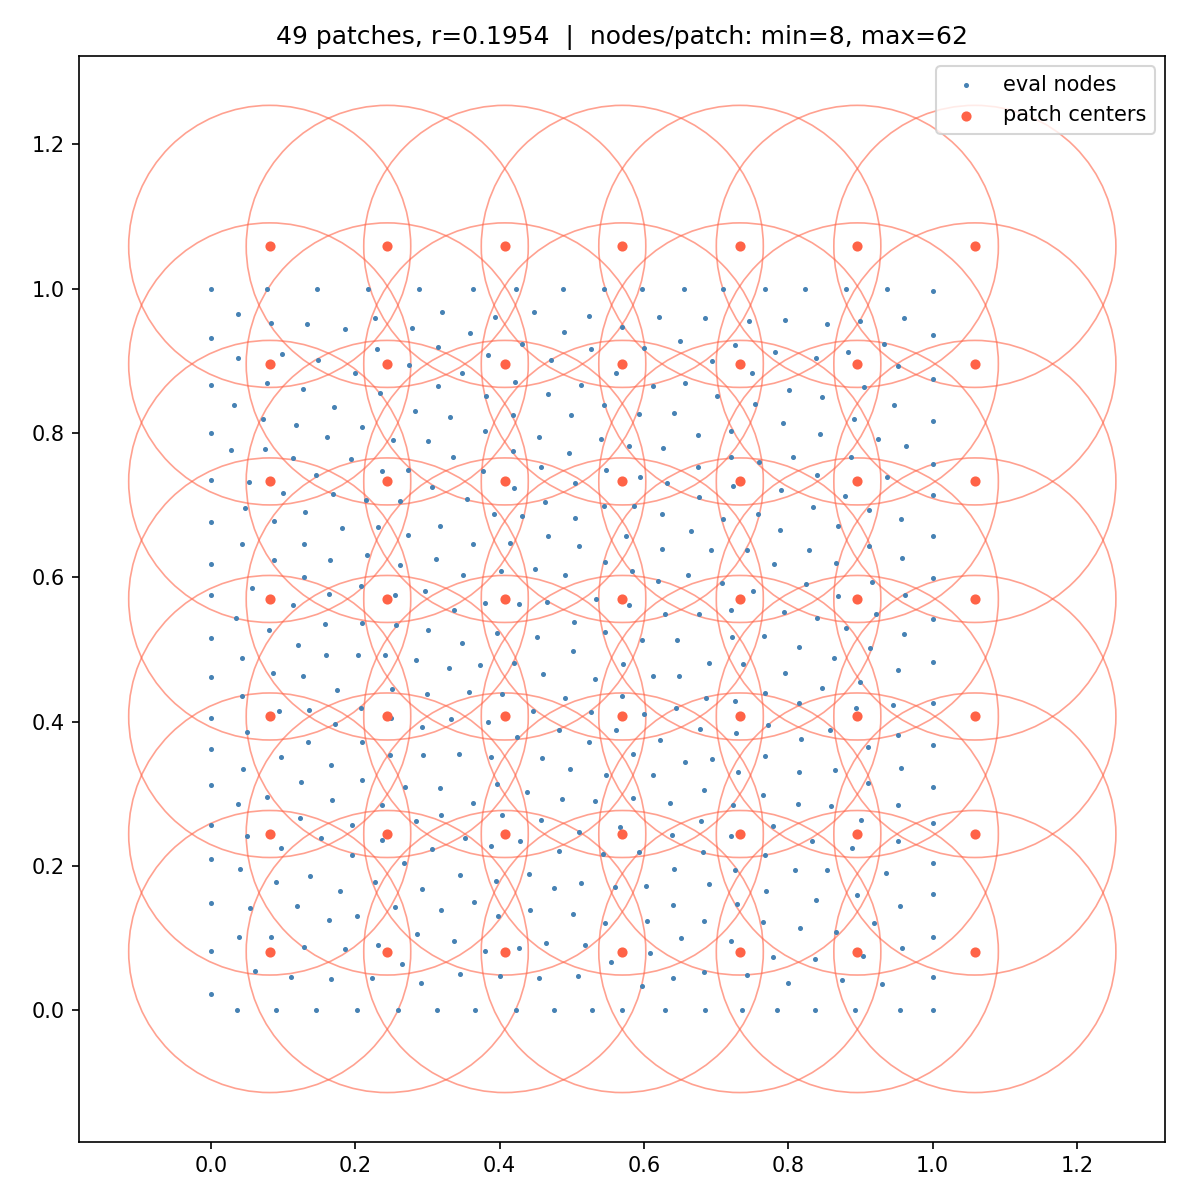
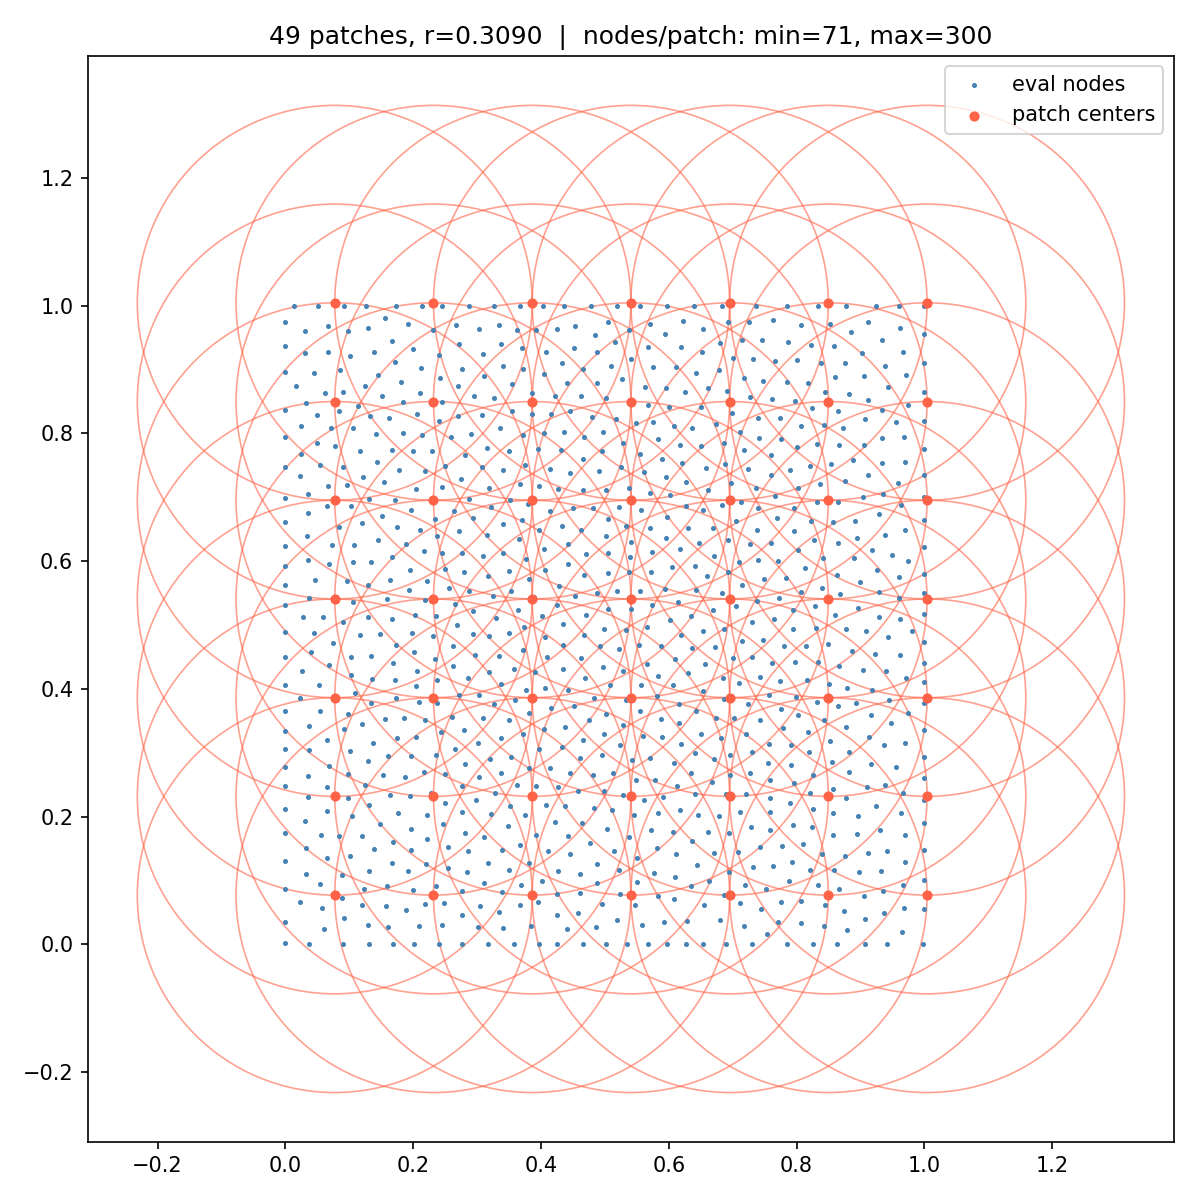
LSPUM mostly working

diff --git a/LSPUM/PoissonTest.py b/LSPUM/PoissonTest.py
@@ -6,7 +6,9 @@ from scipy.spatial import cKDTree
 from source.PatchTiling import BoxGridTiling2D
 from nodes.SquareDomain import PoissonSquareOne, MinEnergySquareOne
 from source.LSSetup import Setup
-from source.Operators import GenLap
+from source.Operators import GenLapMatrix, GenInterp
+from scipy.sparse.linalg import lsqr
+from source.PUWeights import NormalizeWeights
 
 comm = MPI.COMM_WORLD
 rank = comm.Get_rank()
@@ -14,9 +16,9 @@ size = comm.Get_size()
 
 plotfolder = "figures"
 
-M = 500
-beta = 2
-alpha = 1.2
+M = 1000
+beta = 6
+alpha = 2
 
 if rank == 0:
     print("Generating nodes...")
@@ -24,7 +26,7 @@ if rank == 0:
     eval_nodes, normals, groups = MinEnergySquareOne(M)
 
     print("Tiling domain...")
-    centers, r = BoxGridTiling2D(eval_nodes, n_interp=30, oversample_factor=beta, overlap=alpha)
+    centers, r = BoxGridTiling2D(eval_nodes, n_interp=50, oversample_factor=beta, overlap=alpha)
 
     # Count eval_nodes per patch
     tree = cKDTree(eval_nodes)
@@ -51,11 +53,12 @@ else:
     groups = None
     centers = None
     r = None
-comm.bcast(eval_nodes, root=0)
-comm.bcast(normals, root=0)
-comm.bcast(groups, root=0)
-comm.bcast(centers, root=0)
-comm.bcast(r, root=0)
+eval_nodes = comm.bcast(eval_nodes, root=0)
+normals    = comm.bcast(normals, root=0)
+groups     = comm.bcast(groups, root=0)
+centers    = comm.bcast(centers, root=0)
+r          = comm.bcast(r, root=0)
+
 
 bc_flags = np.empty(len(eval_nodes), dtype=str)
 bc_flags[groups["boundary:all"]] = 'd'
@@ -63,32 +66,53 @@ bc_flags[groups["boundary:all"]] = 'd'
 bc_flags[groups["interior"]] = 'i'
 
 local_patches = Setup(
-    comm, eval_nodes, normals, groups, centers, r,
+    comm, eval_nodes, normals, bc_flags, centers, r,
     n_interp=30, node_layout='vogel', assignment='round_robin',
     K=64, n=16, m=48, eval_epsilon=0,
 )
 
-lap = GenLap(comm, local_patches, M=M)
+NormalizeWeights(comm, local_patches, M)
 
-local_us = []
+n_interp  = local_patches[0].interp_nodes.shape[0] if local_patches else 0
+n_interp  = comm.allreduce(n_interp, op=MPI.MAX)
+N_patches = len(centers)
 
-for patch in local_patches:
-    u_j = -2*np.pi**2*np.sin(np.pi * patch.interp_nodes[:, 0]) * np.sin(np.pi * patch.interp_nodes[:, 1])
-    local_us.append(u_j)
-
-UY = lap(local_us)
+print(f"[{rank}] Building system matrix ({M} x {N_patches * n_interp})...")
+A = GenLapMatrix(comm, local_patches, M, N_patches, n_interp, groups["boundary:all"])
 
 if rank == 0:
-    # Plot UY
-    fig, ax = plt.subplots(figsize=(8, 8))
-    sc = ax.scatter(eval_nodes[:, 0], eval_nodes[:, 1], c=UY, s=5, cmap='viridis')
-    plt.colorbar(sc, ax=ax, label='Laplace(U)')
-    ax.set_aspect('equal')
-    ax.set_title('Laplace(U) at eval nodes')
+    # RHS: interior = manufactured forcing, boundary = 0 (sin vanishes on unit-square boundary)
+    f = np.zeros(M)
+    xi = eval_nodes[groups["interior"]]
+    f[groups["interior"]] = -2 * np.pi**2 * np.sin(np.pi * xi[:, 0]) * np.sin(np.pi * xi[:, 1])
+
+    print(f"Solving ({A.shape[0]} x {A.shape[1]}, nnz={A.nnz})...")
+    c, *_ = lsqr(A, f, atol=1e-12, btol=1e-12, iter_lim=50000)
+else:
+    c = None
+
+c = comm.bcast(c, root=0)
+
+local_cs = [c[p.global_pid * n_interp : (p.global_pid + 1) * n_interp] for p in local_patches]
+
+interp = GenInterp(comm, local_patches, M=M)
+U = interp(local_cs)
+
+if rank == 0:
+    u_exact = np.sin(np.pi * eval_nodes[:, 0]) * np.sin(np.pi * eval_nodes[:, 1])
+    error   = np.abs(U - u_exact)
+    print(f"Max error: {error.max():.2e},  L2 error: {np.sqrt(np.mean(error**2)):.2e}")
+
+    fig, axes = plt.subplots(1, 2, figsize=(14, 6))
+    sc0 = axes[0].scatter(eval_nodes[:, 0], eval_nodes[:, 1], c=U,     s=5, cmap='viridis')
+    sc1 = axes[1].scatter(eval_nodes[:, 0], eval_nodes[:, 1], c=error, s=5, cmap='hot_r')
+    plt.colorbar(sc0, ax=axes[0], label='U (computed)')
+    plt.colorbar(sc1, ax=axes[1], label='|error|')
+    axes[0].set_aspect('equal'); axes[0].set_title('PUM Poisson solution')
+    axes[1].set_aspect('equal'); axes[1].set_title('Pointwise error')
     plt.tight_layout()
-    plt.savefig(plotfolder + '/laplace_u.png', dpi=150)
-    #plt.show()
-    print("Saved laplace_u.png")
+    plt.savefig(plotfolder + '/poisson_solution.png', dpi=150)
+    print("Saved poisson_solution.png")
 
 
 

diff --git a/LSPUM/source/Operators.py b/LSPUM/source/Operators.py
@@ -1,9 +1,9 @@
 import numpy as np
 from mpi4py import MPI
+from scipy.sparse import csr_matrix
 
 def GenLap(comm, patches, M):
 
-    n_interp = patches[0].E.shape[1] if patches else 0
     d        = patches[0].D.shape[0]  if patches else 0
 
     def lap(local_us):
@@ -16,8 +16,81 @@ def GenLap(comm, patches, M):
             grad  = np.column_stack([patch.D[k] @ u_j for k in range(d)])
             lap_u = patch.L @ u_j
 
-            result_local[idx] = patch.w_bar * lap_u + 2.0 * np.sum(patch.gw_bar * grad, axis=1) + patch.lw_bar * E_u
+            result_local[idx] += patch.w_bar * lap_u + 2.0 * np.sum(patch.gw_bar * grad, axis=1) + patch.lw_bar * E_u
 
         result = np.zeros(M)
         comm.Allreduce(result_local, result, op=MPI.SUM)
         return result
+    
+    return lap
+
+def GenInterp(comm, patches, M):
+
+
+    def interp(local_us):
+        result_local = np.zeros(M)
+        for p, patch in enumerate(patches):
+            idx = patch.eval_node_indices
+            u_j = local_us[p]
+            E_u   = patch.E @ u_j
+
+            result_local[idx] += patch.w_bar * E_u
+
+        result = np.zeros(M)
+        comm.Allreduce(result_local, result, op=MPI.SUM)
+        return result
+    
+    return interp
+
+def GenLapMatrix(comm, patches, M, N_patches, n_interp, bc_indices):
+    """
+    Build the PUM system matrix via batched matvecs.
+
+    For each patch j, applies both operators to the n_interp identity columns
+    of that DOF block, producing n_interp matrix columns per MPI round.
+
+    Interior rows : PUM Laplacian   (w_bar*L + 2*gw_bar·D + lw_bar*E)
+    Dirichlet rows: PUM interpolant (w_bar*E)
+
+    Returns CSR matrix on rank 0, None on other ranks.
+    """
+    rank = comm.Get_rank()
+    nc   = N_patches * n_interp
+
+    A_lap = np.zeros((M, nc)) if rank == 0 else None
+    A_itp = np.zeros((M, nc)) if rank == 0 else None
+
+    patch_by_pid = {p.global_pid: p for p in patches}
+
+    for j in range(N_patches):
+        c0 = j * n_interp
+        c1 = c0 + n_interp
+
+        loc_lap = np.zeros((M, n_interp))
+        loc_itp = np.zeros((M, n_interp))
+
+        if j in patch_by_pid:
+            patch = patch_by_pid[j]
+            idx = patch.eval_node_indices
+            EU  = patch.E                                                   # (n_eval, n_interp)
+            DU  = patch.D                                                   # (d, n_eval, n_interp)
+            LU  = patch.L                                                   # (n_eval, n_interp)
+
+            loc_lap[idx] = (patch.w_bar[:, None] * LU
+                            + 2.0 * np.einsum('id,dij->ij', patch.gw_bar, DU)
+                            + patch.lw_bar[:, None] * EU)
+            loc_itp[idx] = patch.w_bar[:, None] * EU
+
+        buf_lap = np.zeros((M, n_interp))
+        buf_itp = np.zeros((M, n_interp))
+        comm.Allreduce(loc_lap, buf_lap, op=MPI.SUM)
+        comm.Allreduce(loc_itp, buf_itp, op=MPI.SUM)
+
+        if rank == 0:
+            A_lap[:, c0:c1] = buf_lap
+            A_itp[:, c0:c1] = buf_itp
+
+    if rank == 0:
+        A_lap[bc_indices, :] = A_itp[bc_indices, :]
+        return csr_matrix(A_lap)
+    return None

diff --git a/LSPUM/source/PUWeights.py b/LSPUM/source/PUWeights.py
@@ -34,7 +34,7 @@ def NormalizeWeights(comm, patches, N):
     W : (N,) array
         Global weight sum (should be ≥ 1 everywhere; useful for diagnostics).
     """
-    d = patches[0].nodes.shape[1] if patches else 0
+    d = patches[0].interp_nodes.shape[1] if patches else 0
     d = comm.allreduce(d, op=MPI.MAX)
 
     W_local     = np.zeros(N)
@@ -44,10 +44,10 @@ def NormalizeWeights(comm, patches, N):
     # Pass 1: accumulate raw weights; cache to avoid recomputing after Allreduce
     cache = []
     for patch in patches:
-        idx = patch.node_indices
-        w   = C2Weight(patch.nodes, patch.center, patch.radius)
-        gw  = C2WeightGradient(patch.nodes, patch.center, patch.radius)
-        lw  = C2WeightLaplacian(patch.nodes, patch.center, patch.radius)
+        idx = patch.eval_node_indices
+        w   = C2Weight(patch.eval_nodes, patch.center, patch.radius)
+        gw  = C2WeightGradient(patch.eval_nodes, patch.center, patch.radius)
+        lw  = C2WeightLaplacian(patch.eval_nodes, patch.center, patch.radius)
         cache.append((w, gw, lw))
 
         W_local[idx]     += w
@@ -67,7 +67,7 @@ def NormalizeWeights(comm, patches, N):
     #   ∇ψ  = ∇w/W  -  w ∇W / W²
     #   Δψ  = Δw/W  -  2 ∇w·∇W / W²  -  w ΔW / W²  +  2 w |∇W|² / W³
     for patch, (w, gw, lw) in zip(patches, cache):
-        idx = patch.node_indices
+        idx = patch.eval_node_indices
         Wn  = W[idx]            # (n_eval,)
         gWn = gradW[idx]        # (n_eval, d)
         lWn = lapW[idx]         # (n_eval,)

diff --git a/LSPUM/source/LSSetup.py b/LSPUM/source/LSSetup.py
@@ -25,7 +25,7 @@ def Setup(comm, eval_nodes, normals, bc_flags, centers, r, n_interp=30, node_lay
     Es = comm.bcast(Es, root=0)
 
     if assignment == 'round_robin':
-        local_patch_indices = RoundRobin(rank, size, len(patch_nodes_base))
+        local_patch_indices = RoundRobin(rank, size, len(centers))
     else:
         raise ValueError("Unknown assignment method")
     
@@ -34,7 +34,7 @@ def Setup(comm, eval_nodes, normals, bc_flags, centers, r, n_interp=30, node_lay
     else:
         tree = None
     
-    comm.bcast(tree, root=0)
+    tree = comm.bcast(tree, root=0)
 
     local_patches = []
     for i in local_patch_indices:
